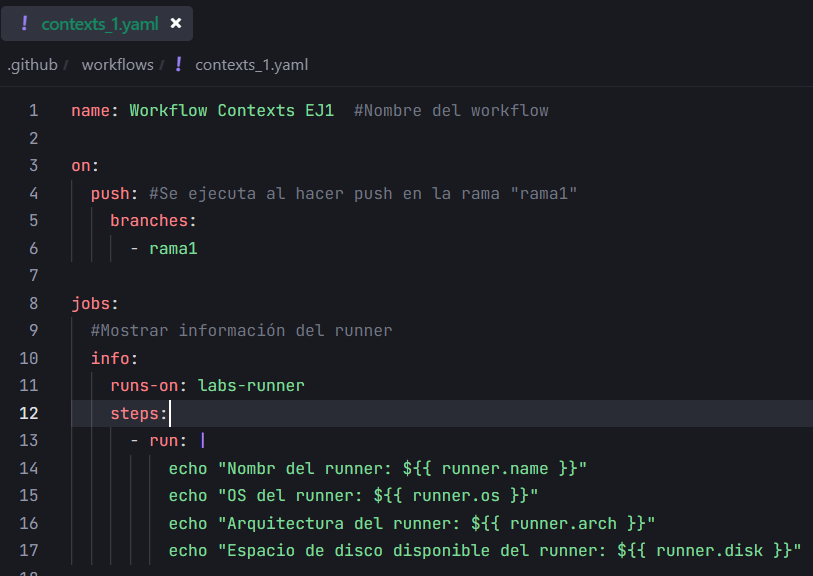
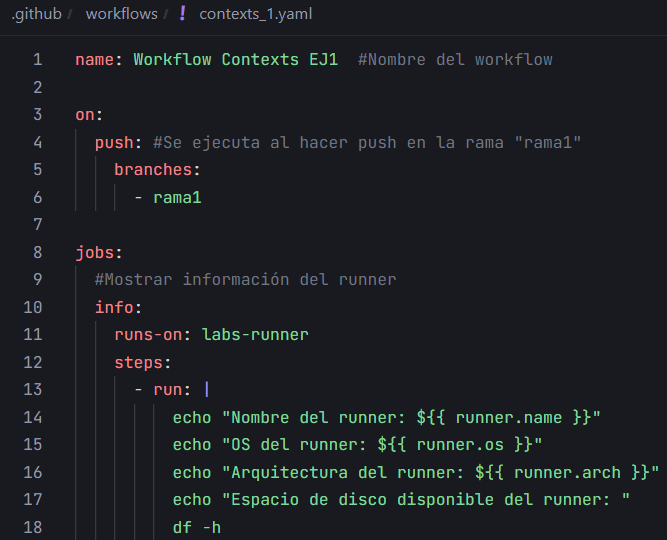
contexts ej1 completado

diff --git a/soluciones/contexts/README.md b/soluciones/contexts/README.md
@@ -1,0 +1,84 @@
+# Contexts
+
+## Documentación
+
+Los contexts en GitHub Actions son conjuntos de información predefinida que se puede utilizar dentro de los flujos de trabajo (workflows). Estos contexts proporcionan datos relevantes sobre el entorno de ejecución, los eventos que desencadenaron el flujo de trabajo, las propiedades del repositorio, y más.
+
+Principales contexts en GitHub Actions:
+
+- **github:** Proporciona información sobre el repositorio y el evento que activó el workflow. Incluye datos como el nombre del repositorio, el actor que disparó el evento, y el SHA de la confirmación (commit) actual.
+
+- **env:** Contiene las variables de entorno definidas en el archivo de workflow o en la configuración de GitHub.
+
+- **job:** Proporciona información sobre el trabajo (job) actual, como su estado (status) y su ID.
+
+- **steps:** Permite acceder a la salida (output) de los pasos (steps) previos dentro del mismo trabajo.
+
+- **secrets:** Accede a los secretos almacenados en GitHub, como tokens de acceso o claves API, de forma segura.
+
+- **runner:** Proporciona detalles sobre el entorno en el que se está ejecutando el workflow, incluyendo el sistema operativo, el tipo de máquina, y más.
+
+- **matrix** Se utiliza en workflows que utilizan matrices de configuración para realizar pruebas en diferentes entornos. Este context contiene las combinaciones específicas de la matriz que se están ejecutando en un momento dado.
+
+[Documentación sobre Contextos](https://docs.github.com/es/actions/writing-workflows/choosing-what-your-workflow-does/accessing-contextual-information-about-workflow-runs)
+
+---
+
+## Ejemplos
+
+### Ejemplo de uso del contexto "github"
+
+```yaml
+name: Run CI
+on: [push, pull_request]
+
+jobs:
+  normal_ci:
+    runs-on: ubuntu-latest
+    steps:
+      - name: Run normal CI
+        run: echo "Running normal CI"
+
+  pull_request_ci:
+    runs-on: ubuntu-latest
+#             ↓
+    if: ${{ github.event_name == 'pull_request' }} 
+    steps:
+      - name: Run PR CI
+        run: echo "Running PR only CI"
+```
+
+### Ejemplo de uso del contexto "env"
+
+```yaml
+name: Hi Mascot
+on: push
+env:
+  mascot: Mona
+  super_duper_var: totally_awesome
+
+jobs:
+  windows_job:
+    runs-on: windows-latest
+    steps:
+      - run: echo 'Hi ${{ env.mascot }}'  # Hi Mona
+      - run: echo 'Hi ${{ env.mascot }}'  # Hi Octocat
+#        ↓
+        env:
+          mascot: Octocat
+  linux_job:
+    runs-on: ubuntu-latest
+    env:
+      mascot: Tux
+    steps:
+      - run: echo 'Hi ${{ env.mascot }}'  # Hi Tux
+```
+
+---
+
+## Ejercicios
+
+- [Ejercicio 1](ejercicio1.md)
+- [Ejercicio 2](ejercicio2.md)
+- [Ejercicio 3](ejercicio3.md)
+- [Ejercicio 4](ejercicio4.md)

diff --git a/soluciones/contexts/ejercicio1.md b/soluciones/contexts/ejercicio1.md
@@ -1,0 +1,19 @@
+# Contexts - Ejercicio 1
+
+## Configura un workflow que imprima información sobre el runner en el que se está ejecutando el job, como el nombre del sistema operativo, la arquitectura, y el espacio en disco disponible
+
+Workflow:
+
+![](../../datos/contexts_ej1_foto1.png)
+
+Los parámetros del context para ver la información del runner son:
+
+- runner.name = Ver el nombre
+- runner.os = Ver el sistema operativo
+- runner.arch = Ver la arquitectura
+
+Por último uso el comando `df -h` para ver el espacio en disco disponible.
+
+Resultado:
+
+![](../../datos/contexts_ej1_foto2.png)

diff --git a/soluciones/contexts/ejercicio2.md b/soluciones/contexts/ejercicio2.md
@@ -1,0 +1,8 @@
+# Contexts - Ejercicio 2
+
+## Configura un workflow que utilice un secreto llamado PROD_API_KEY para realizar un despliegue ficticio si se ejecuta en la rama main, y otro secreto llamado STAGING_API_KEY para cualquier otra rama
+
+**El workflow debería:**
+
+- Utilizar el contexto secrets para inyectar la API Key correspondiente en un comando de despliegue ficticio.
+- Imprimir un mensaje indicando cuál API Key se utilizó.

diff --git a/soluciones/contexts/ejercicio4.md b/soluciones/contexts/ejercicio4.md
@@ -1,0 +1,3 @@
+# Contexts - Ejercicio 4
+
+## Configura un workflow que se ejecute cuando se abra una pull_request. El workflow debería verificar si el título del pull request contiene una palabra clave específica (urgent). Si la palabra se encuentra en el título, imprime el título y cuerpo de la PR, si la palabra no se encuentra en el título, haz que la ejecución falle.

diff --git a/soluciones/contexts/ejercicio3.md b/soluciones/contexts/ejercicio3.md
@@ -1,0 +1,3 @@
+# Contexts - Ejercicio 3
+
+## Configura un workflow que realice una tarea ficticia y luego envíe un mensaje de notificación a una URL (simulada con echo) usando el estado del job y el nombre del evento que lo desencadenó
